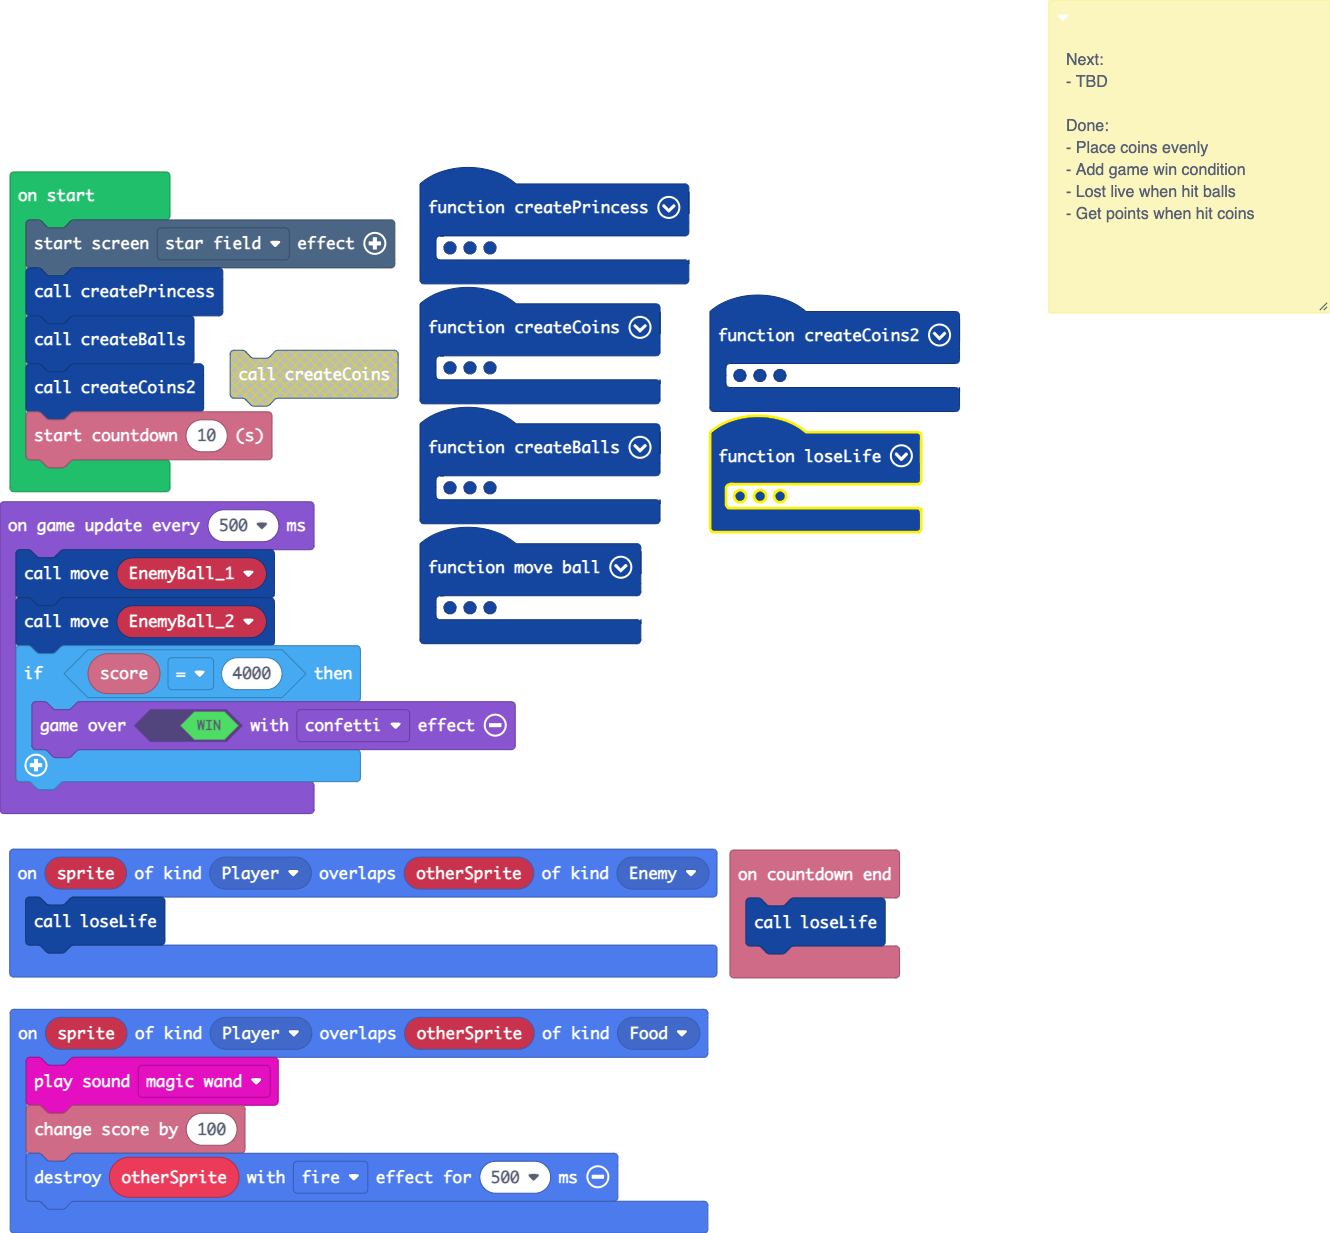
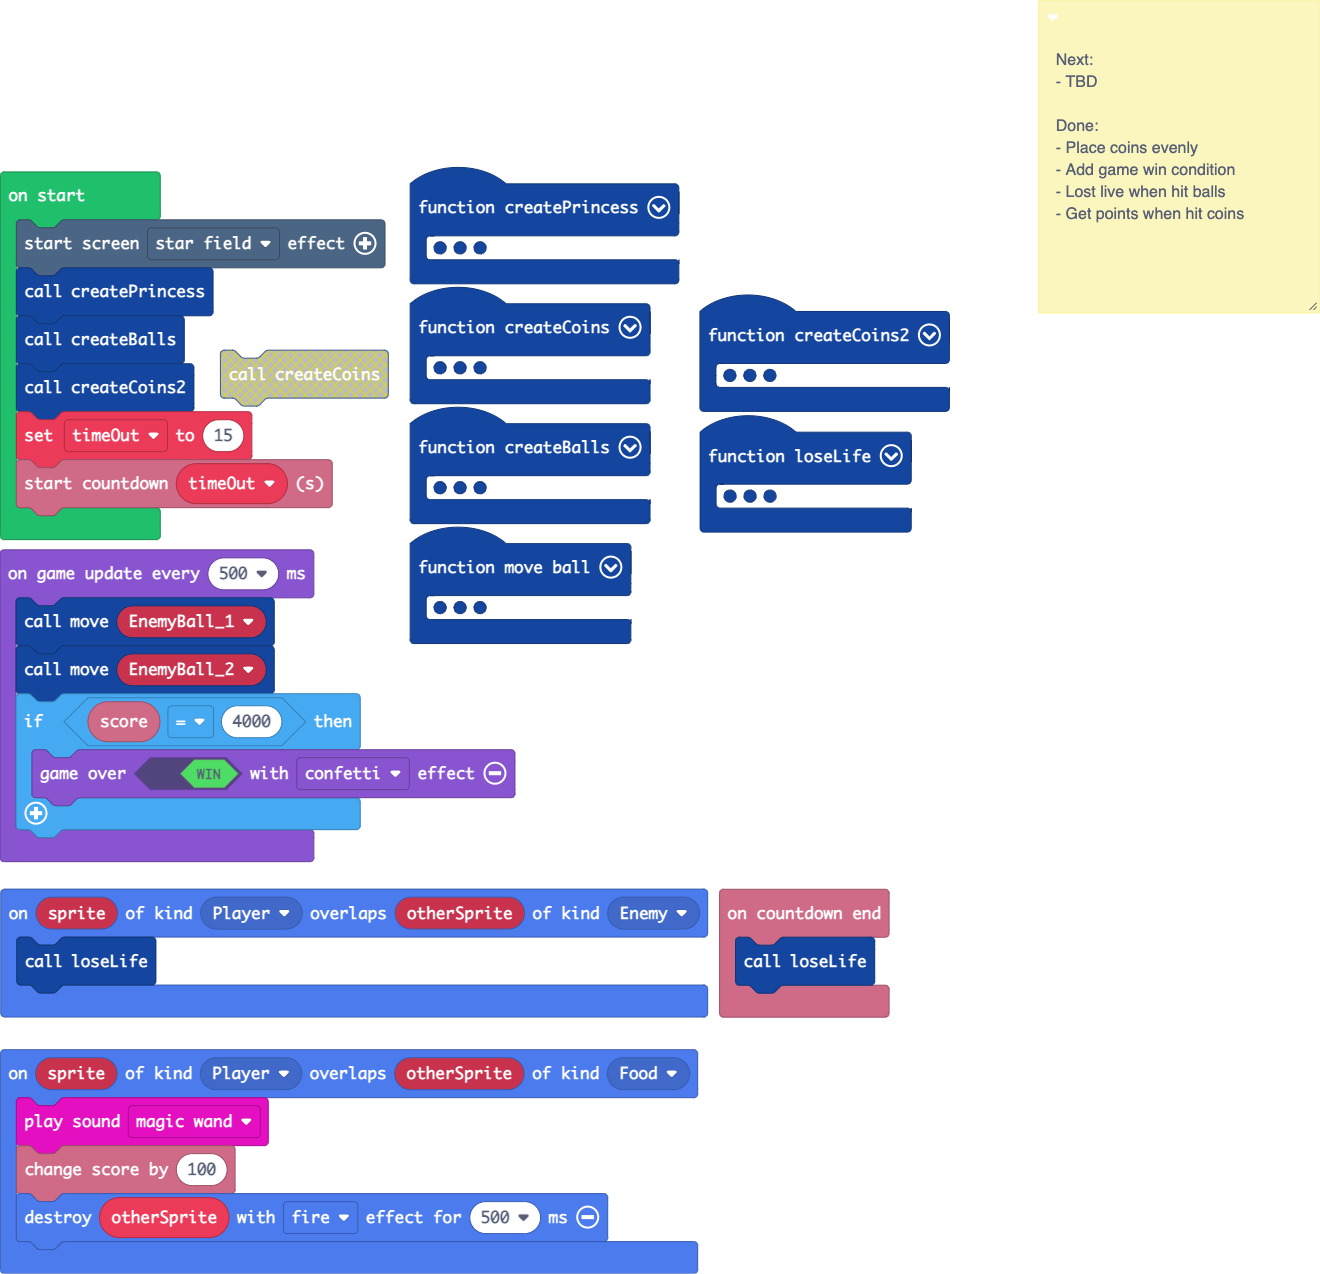
Add timeOut variable

diff --git a/main.ts b/main.ts
@@ -99,7 +99,7 @@ function loseLife () {
     EnemyBall_1.destroy()
     EnemyBall_2.destroy()
     createBalls()
-    info.startCountdown(10)
+    info.startCountdown(timeOut)
 }
 info.onCountdownEnd(function () {
     loseLife()
@@ -206,11 +206,13 @@ let EnemyBall_2: Sprite = null
 let EnemyBall_1: Sprite = null
 let GoldCoin: Sprite = null
 let Princess: Sprite = null
+let timeOut = 0
 effects.starField.startScreenEffect()
 createPrincess()
 createBalls()
 createCoins2()
-info.startCountdown(10)
+timeOut = 15
+info.startCountdown(timeOut)
 game.onUpdateInterval(500, function () {
     move(EnemyBall_1)
     move(EnemyBall_2)
